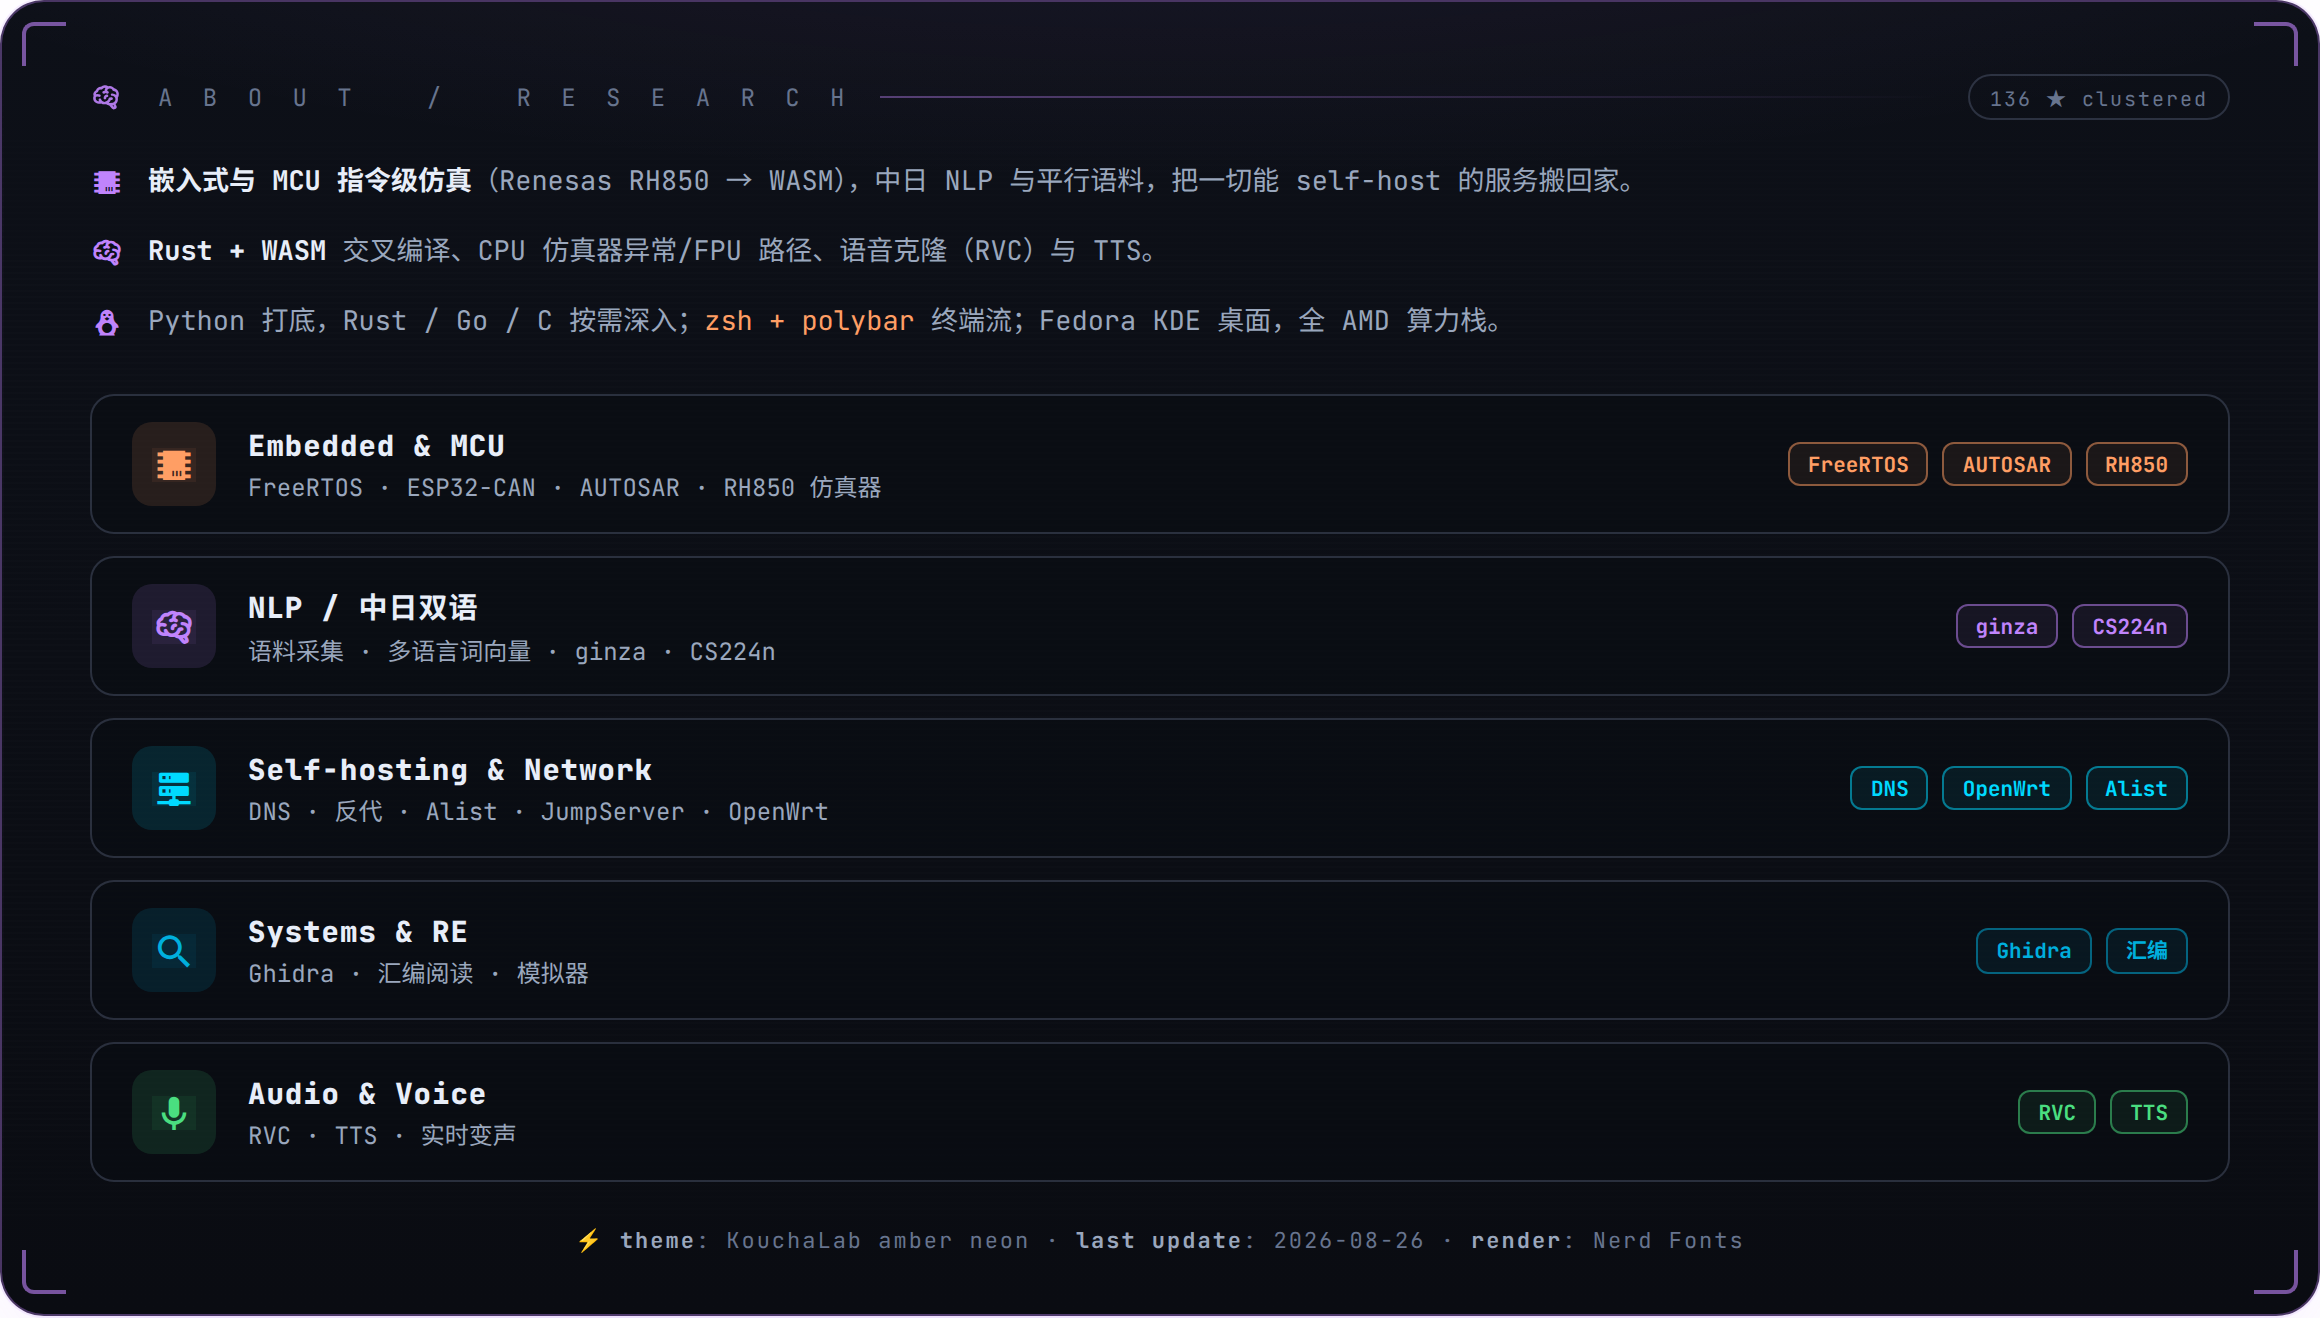
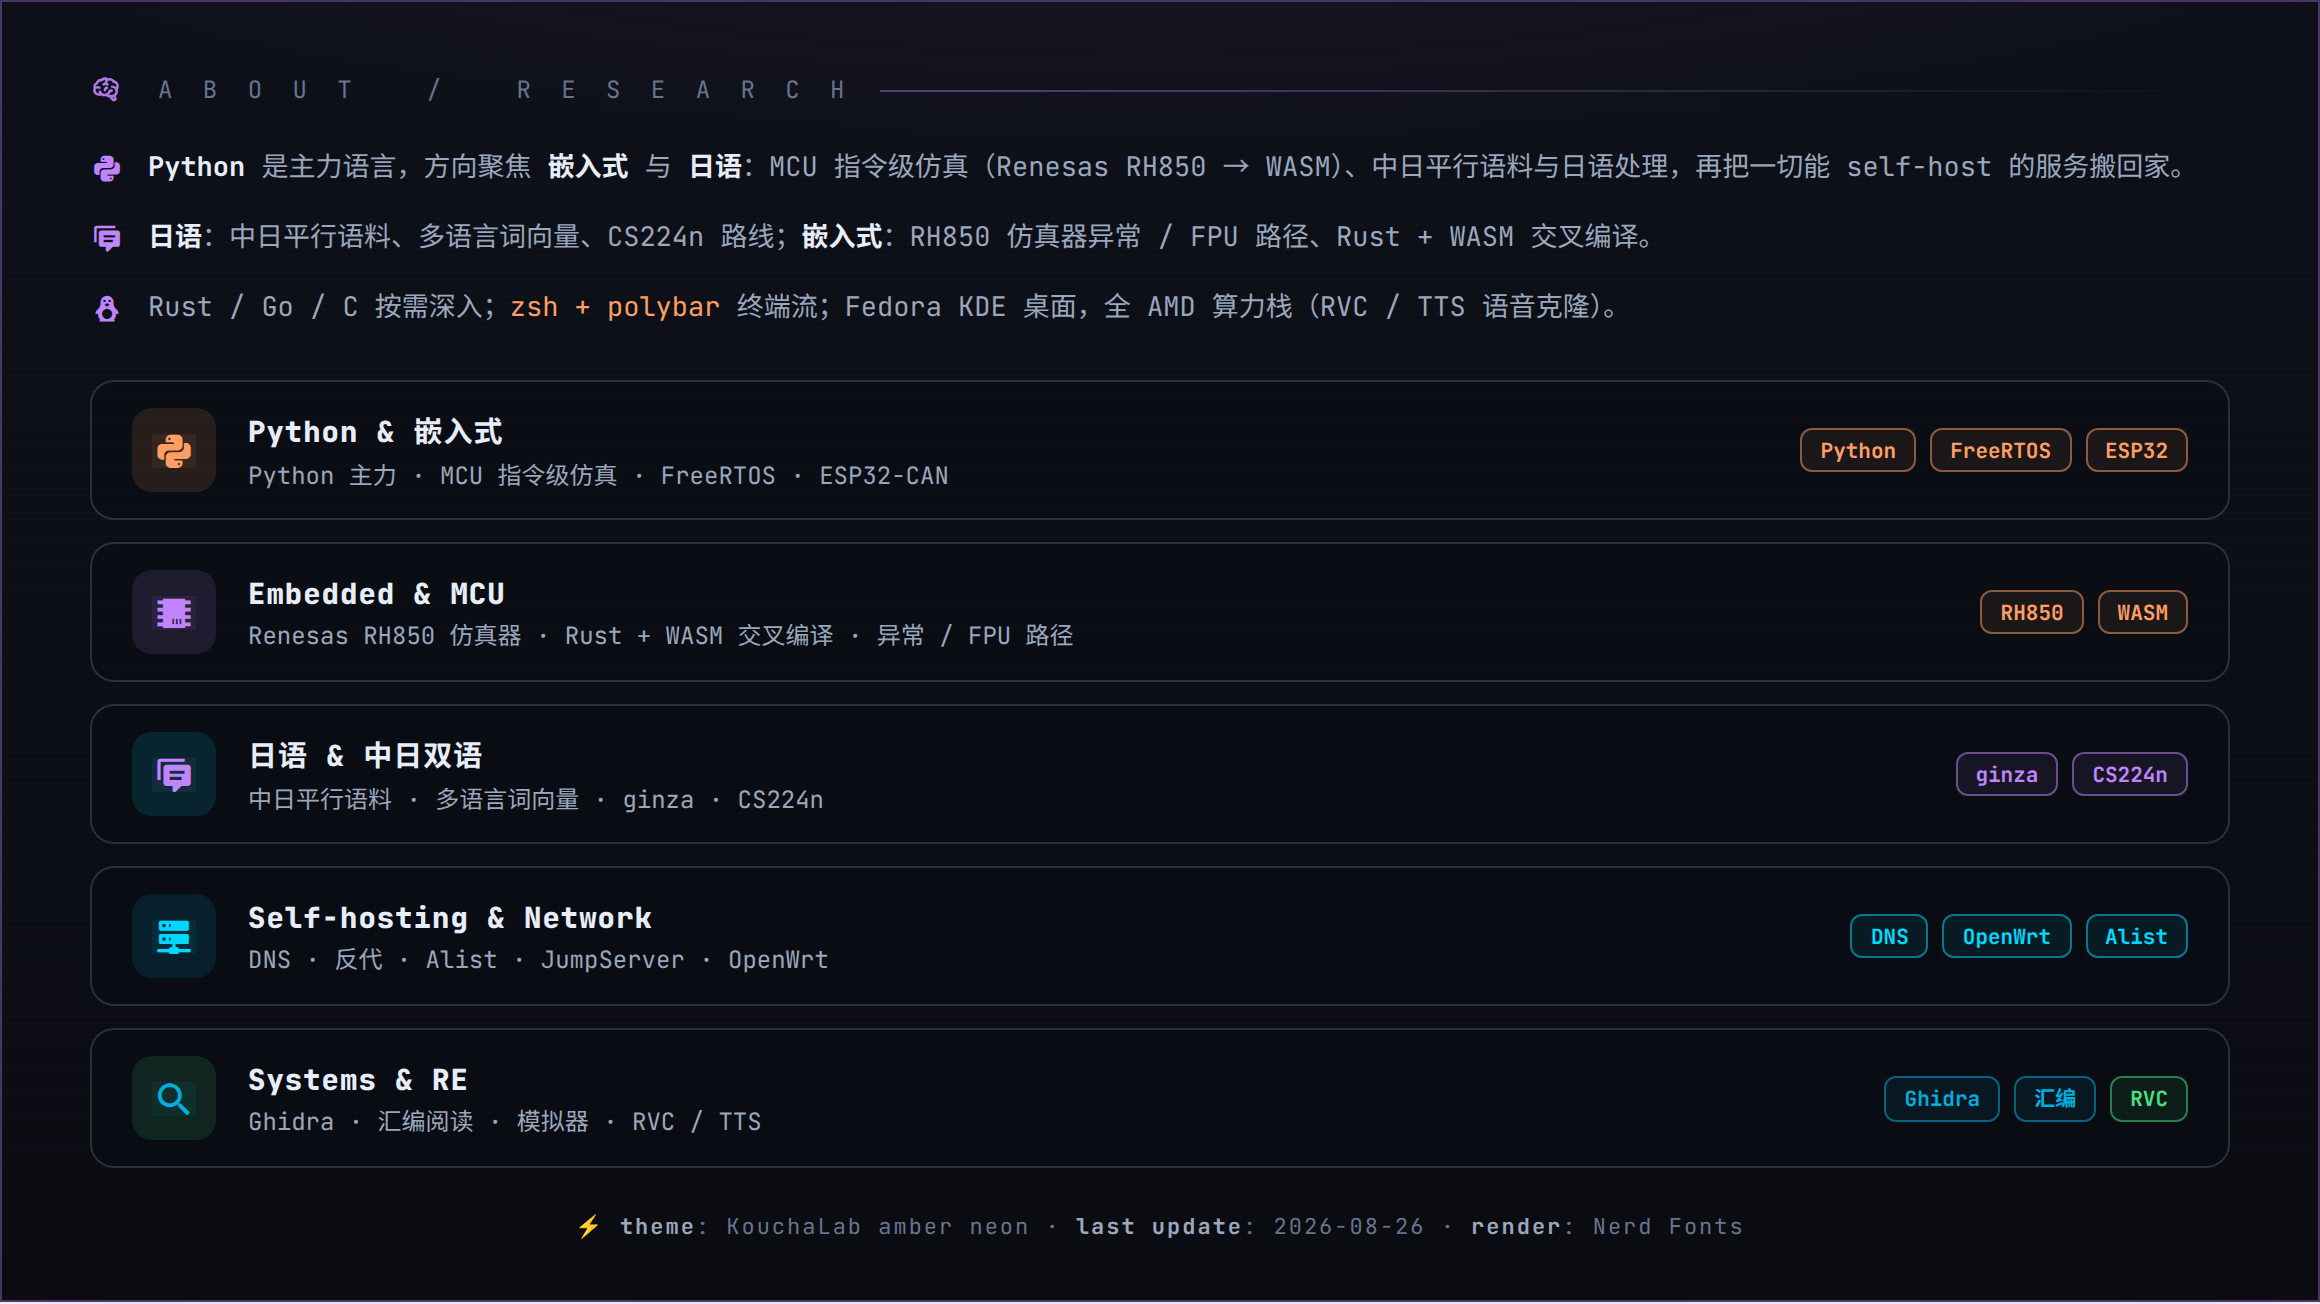
Refine cards per feedback: drop duplicate specs card, FP8 metric, Python/Embedded/Japanese focus, no NLP, square corners
- remove images/specs.png (overlapped hero's system specs)
- hero GPU metrics: 766 TOPS total AI compute + 383 TFLOPS FP8 matrix
- taglines: Python / Embedded / Japanese; drop NLP everywhere
- research card reordered: Python & Embedded, Embedded & MCU, 日语 as main rows
- memory line: 32 GB DDR5 / ZRAM 8 GB / Swap 40 GB
- all cards now have square outer borders (no rounding) for dark themes

diff --git a/README.md b/README.md
@@ -1,6 +1,6 @@
 <div align="center">
 
-![TakanashiKoucha — fake_world // embedded · NLP · self-hosted](images/typing.png)
+![TakanashiKoucha — fake_world // embedded · 日语 · self-hosted](images/typing.png)
 
 </div>
 
@@ -14,15 +14,7 @@
 
 <div align="center">
 
-![KouchaLab — system specs, tech stack & contact](images/specs.png)
-
-</div>
-
-<br>
-
-<div align="center">
-
-![KouchaLab — about / research clusters](images/research.png)
+![KouchaLab — about / research](images/research.png)
 
 </div>
 
@@ -31,7 +23,8 @@
 <div align="center">
 
 **AMD Ryzen 9 9900X** · 12C/24T Zen 5 · 5.75 GHz · AVX-512 + BF16 + VNNI<br>
-**Radeon AI PRO R9700** · RDNA 4 (Navi 48) · **766 TOPS** · 383 TFLOPS FP32 · 32 GB GDDR6 · PCIe 5.0<br>
+**Radeon AI PRO R9700** · RDNA 4 (Navi 48) · **766 TOPS** AI 算力 · FP8 383 TFLOPS · 32 GB GDDR6 · PCIe 5.0<br>
+**32 GB DDR5** · ZRAM 8 GB · Swap 40 GB<br>
 **Fedora 44** · KDE Plasma 6.7 · kernel 7.1.10 · ROCm 7 · self-hosted lab
 
 </div>
